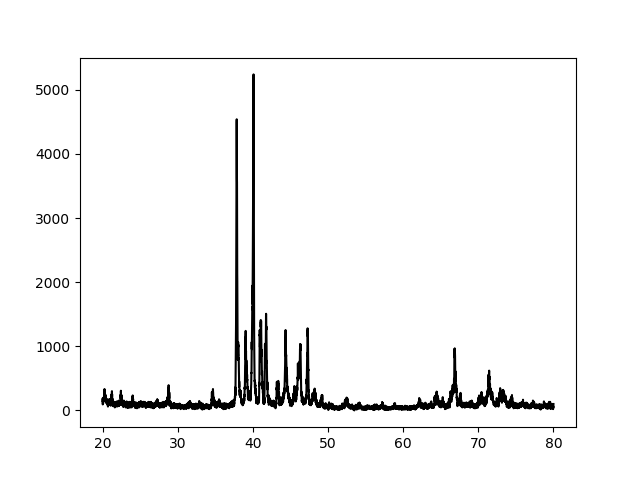
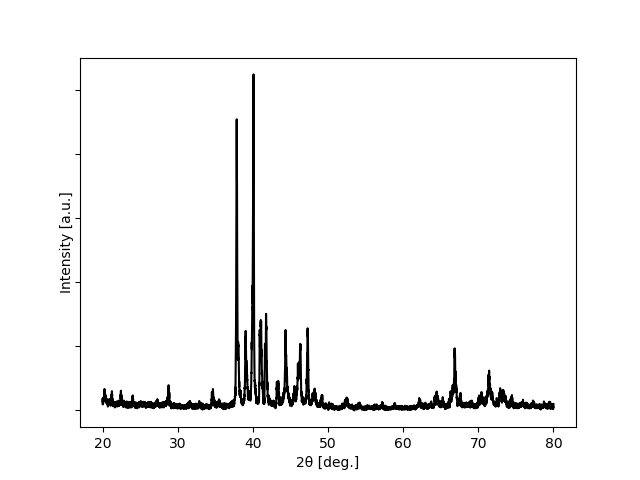
urinama

diff --git a/pages/index.js b/pages/index.js
@@ -4,7 +4,7 @@ import axios from 'axios';
 import 'antd/dist/antd.css'
 import { Table } from 'antd';
 import { Image } from 'antd';
-import { Button, Modal } from 'antd';
+import { Button, Modal, Space } from 'antd';
 import styles from '../styles/Home.module.css'
 import RingLoader from "react-spinners/RingLoader"
 
@@ -20,6 +20,7 @@ export default function Home() {
   const [figSrc, setFigSrc] = useState('error.png');
   const [progress, setProgress] = useState('');
   const [isModalVisible, setIsModalVisible] = useState(false);
+  const [modal2Visible, setModal2Visible] = useState(false);
 
   const showModal = () => {
     setIsModalVisible(true);
@@ -148,6 +149,8 @@ export default function Home() {
     }
   ];
 
+
+
   return (
     <>
       <div className={styles.modal}>
@@ -163,6 +166,7 @@ export default function Home() {
         <h1>Screening Now...</h1>
         <RingLoader color={"#FFBB7A"} size={80}/>
         </Modal>
+
       </div>
 
       <Head>
@@ -185,7 +189,34 @@ export default function Home() {
           <button onClick = {() => {
             showModal();
             sendFile();
-          }}>upload</button>
+          }}>Upload</button>
+
+          <Button type="primary" onClick={() => setModal2Visible(true)}>
+            Manual is here.
+          </Button>
+          <Modal
+           title="Manual"
+            visible={modal2Visible}
+            onOk={handleOk}
+            onCancel={handleCancel}
+            style={{ top: 40 }}
+            width={1000}
+            onOk={() => setModal2Visible(false)}
+            cancelButtonProps={{ disabled: true }}
+          >
+            <h2>What the service</h2>
+            <p>　You can carry out the detection screening for icosahedral quasicrystal (iQC) phases in powder X-ray diffraction (PXRD) patterns
+               based on trained machine learning models.</p>
+            <h2>How to use</h2>
+            <p>　Select the folder containing the PXRD data in "ファイルを選択" and press the "upload" button. ※Screening may take some time.</p>
+            <p>　If files in selected folder do not match the folllowing standards, they will not be screened and will be shown in the Table: "Error files".</p>
+            <h4>　　Files standards</h4>
+            <p>　　・The first column and second columns should be diffraction angle [deg.] and Intensity [a.u.], respectively.</p>
+            <p>　　　(It does not matter if there is a third and subsequent row.)</p>
+            <p>　　・Diffraction data from 20° ～ 80° must exsit, with their intervals 0.01°.</p>
+            <p>　　・Lines with information other than diffraction angle and Intensity must begin with "#" or "*".</p>
+          </Modal>
+
           <p style={{ color: 'red' }}>{errorMessage}</p>
           <h2>　Results</h2>
 
@@ -223,7 +254,7 @@ export default function Home() {
               <h2>XRD Data(Click sample to show)</h2>
               <Image
                 width={900}
-                height={550}
+                height={600}
                 src={figSrc}
               />
             </div>

diff --git a/styles/Home.module.css b/styles/Home.module.css
@@ -1,11 +1,19 @@
 .header {
-  background-color: rgb(233, 232, 232);
-  color: rgb(226, 62, 62);
+  background-color: #26d0c9;
+  color: white;
   padding: 10px;
+}
+
+.header h1{
+  color: white
 }
 
 .body {
   padding: 20px 0 0 20px;
+}
+
+.body button{
+  margin-right: 50px;
 }
 
 .tableWrapper {
@@ -29,6 +37,7 @@
 
 .figure {
   margin: 0 30px;
+
 }
 
 .footer{
@@ -54,4 +63,8 @@
 
 .footerContent ul{
   list-style-type: none;
+}
+
+.info{
+  margin-left: 10px;
 }

diff --git a/pages/api/apiTest_predict.py b/pages/api/apiTest_predict.py
@@ -145,7 +145,11 @@ def draw_fig(response: Response, filename: str):
 
     x_data = np.linspace(20,80,len(list_))
     y_data = list_
-    plt.plot(x_data,y_data,c='black')
+    fig, ax = plt.subplots()
+    ax.tick_params(labelleft=False)
+    ax.plot(x_data,y_data,c='black')
+    ax.set_xlabel("2θ [deg.]")
+    ax.set_ylabel("Intensity [a.u.]")
     #path_fig = f'C:/Users/maron/qc-data/fig/{filename}.png'
     path_fig = f'C:/Users/Hiro/fastapi/QC-judge/fig/{filename}.png'
     plt.savefig(path_fig)
